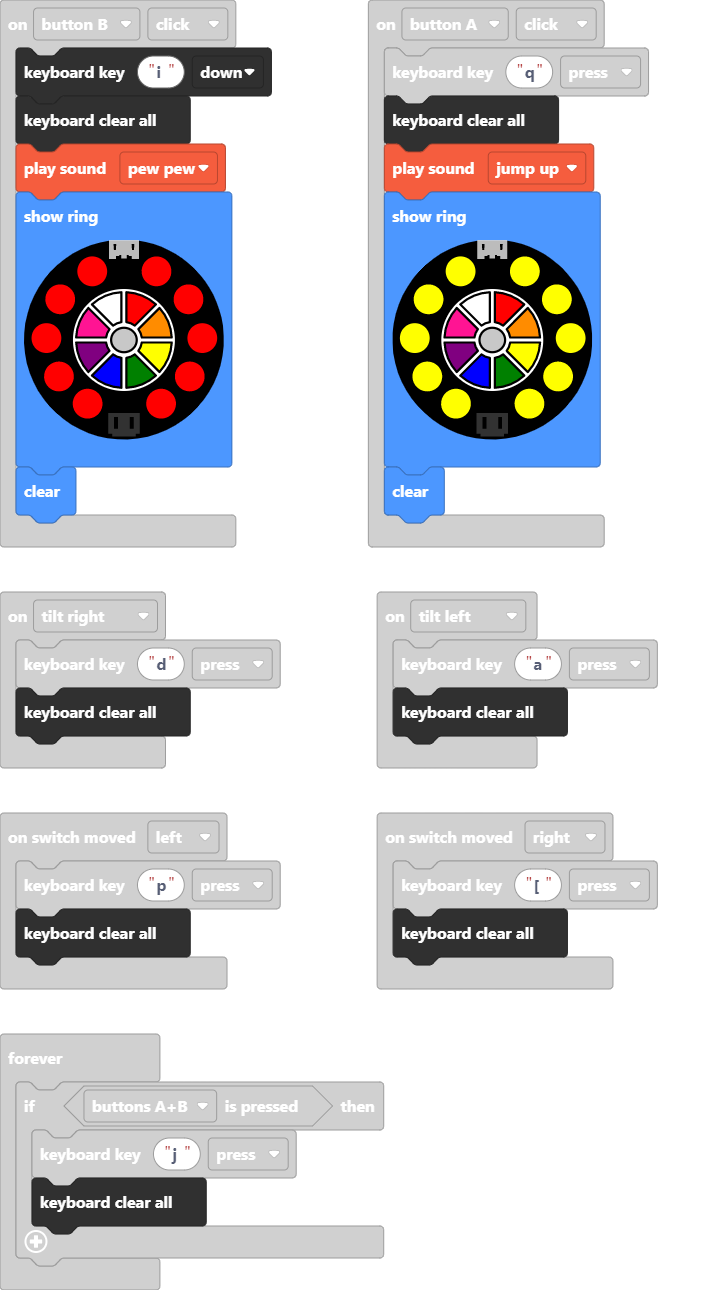
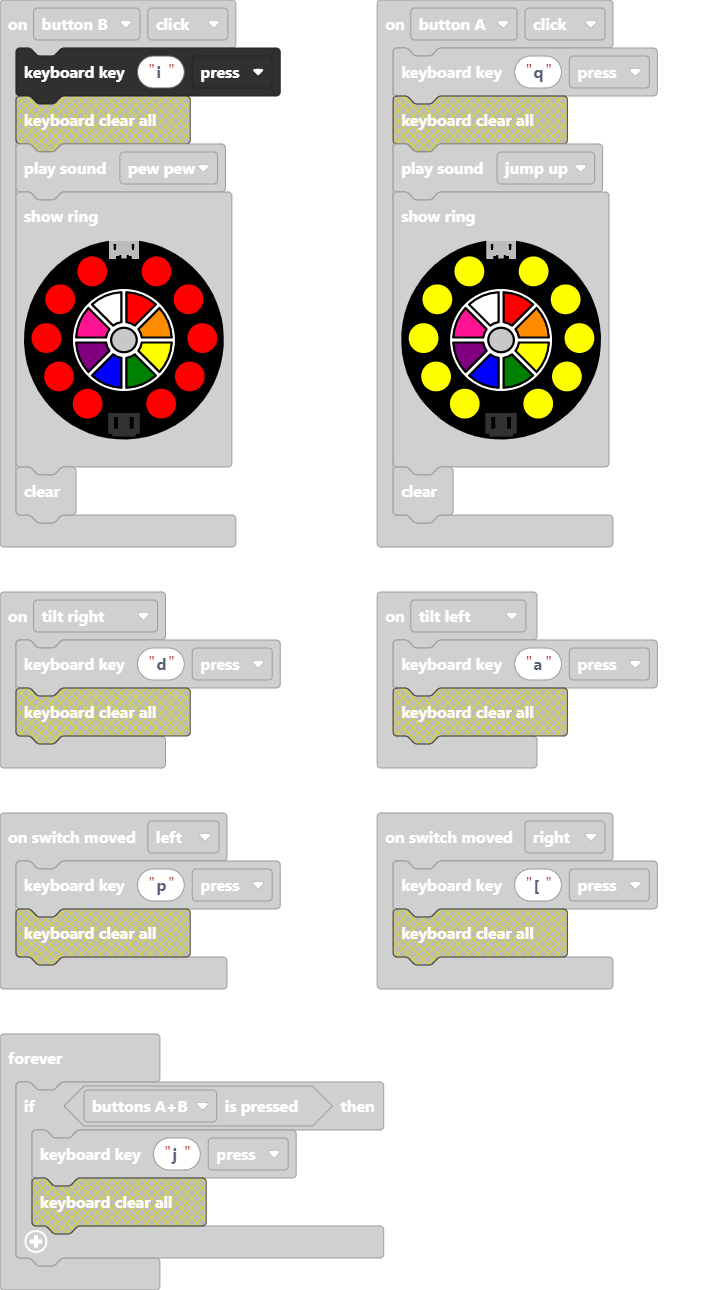
Update main.blocks, main.ts, main.py

diff --git a/main.ts b/main.ts
@@ -1,14 +1,11 @@
 input.onSwitchMoved(SwitchDirection.Right, function () {
     keyboard.key("[", KeyboardKeyEvent.Press)
-    keyboard.clearAllKeys()
 })
 input.onGesture(Gesture.TiltLeft, function () {
     keyboard.key("a", KeyboardKeyEvent.Press)
-    keyboard.clearAllKeys()
 })
 input.buttonA.onEvent(ButtonEvent.Click, function () {
     keyboard.key("q", KeyboardKeyEvent.Press)
-    keyboard.clearAllKeys()
     music.jumpUp.play()
     light.showRing(
     `yellow yellow yellow yellow yellow yellow yellow yellow yellow yellow`
@@ -17,11 +14,9 @@ input.buttonA.onEvent(ButtonEvent.Click, function () {
 })
 input.onGesture(Gesture.TiltRight, function () {
     keyboard.key("d", KeyboardKeyEvent.Press)
-    keyboard.clearAllKeys()
 })
 input.buttonB.onEvent(ButtonEvent.Click, function () {
-    keyboard.key("i", KeyboardKeyEvent.Down)
-    keyboard.clearAllKeys()
+    keyboard.key("i", KeyboardKeyEvent.Press)
     music.pewPew.play()
     light.showRing(
     `red red red red red red red red red red`
@@ -30,11 +25,9 @@ input.buttonB.onEvent(ButtonEvent.Click, function () {
 })
 input.onSwitchMoved(SwitchDirection.Left, function () {
     keyboard.key("p", KeyboardKeyEvent.Press)
-    keyboard.clearAllKeys()
 })
 forever(function () {
     if (input.buttonsAB.isPressed()) {
         keyboard.key("j", KeyboardKeyEvent.Press)
-        keyboard.clearAllKeys()
     }
 })

diff --git a/main.py b/main.py
@@ -1,13 +1,34 @@
+def on_switch_moved_right():
+    keyboard.key("[", KeyboardKeyEvent.PRESS)
+input.on_switch_moved(SwitchDirection.RIGHT, on_switch_moved_right)
+
+def on_gesture_tilt_left():
+    keyboard.key("a", KeyboardKeyEvent.PRESS)
+input.on_gesture(Gesture.TILT_LEFT, on_gesture_tilt_left)
+
 def on_button_a_click():
-    light.show_ring("""red red red red red black black black black black""")
+    keyboard.key("q", KeyboardKeyEvent.PRESS)
     music.jump_up.play()
+    light.show_ring("""yellow yellow yellow yellow yellow yellow yellow yellow yellow yellow""")
+    light.clear()
 input.button_a.on_event(ButtonEvent.CLICK, on_button_a_click)
 
+def on_gesture_tilt_right():
+    keyboard.key("d", KeyboardKeyEvent.PRESS)
+input.on_gesture(Gesture.TILT_RIGHT, on_gesture_tilt_right)
+
 def on_button_b_click():
-    light.show_ring("""black black black black black red red red red red""")
+    keyboard.key("i", KeyboardKeyEvent.PRESS)
     music.pew_pew.play()
+    light.show_ring("""red red red red red red red red red red""")
+    light.clear()
 input.button_b.on_event(ButtonEvent.CLICK, on_button_b_click)
 
+def on_switch_moved_left():
+    keyboard.key("p", KeyboardKeyEvent.PRESS)
+input.on_switch_moved(SwitchDirection.LEFT, on_switch_moved_left)
+
 def on_forever():
-    light.show_ring("""black black black black black black black black black black""")
+    if input.buttons_ab.is_pressed():
+        keyboard.key("j", KeyboardKeyEvent.PRESS)
 forever(on_forever)
